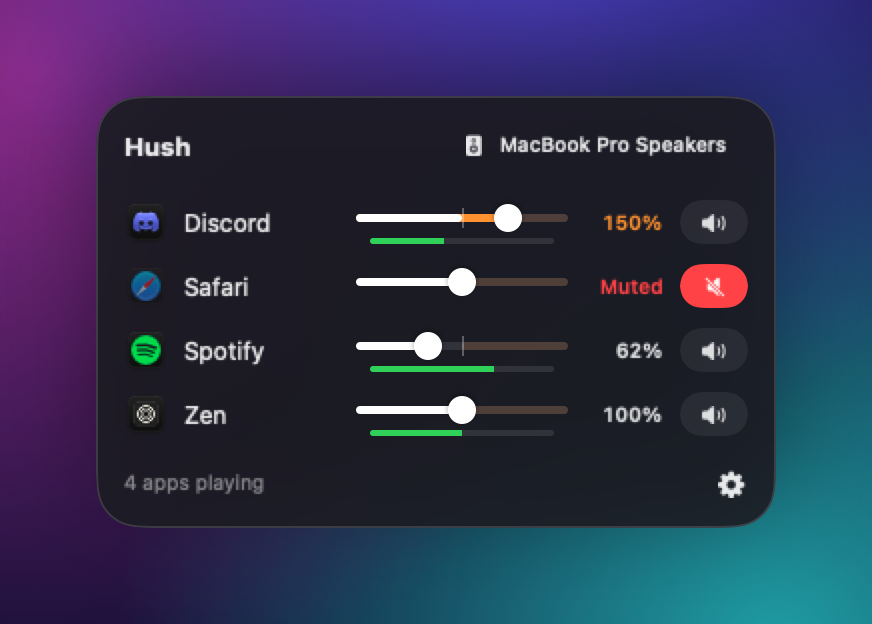
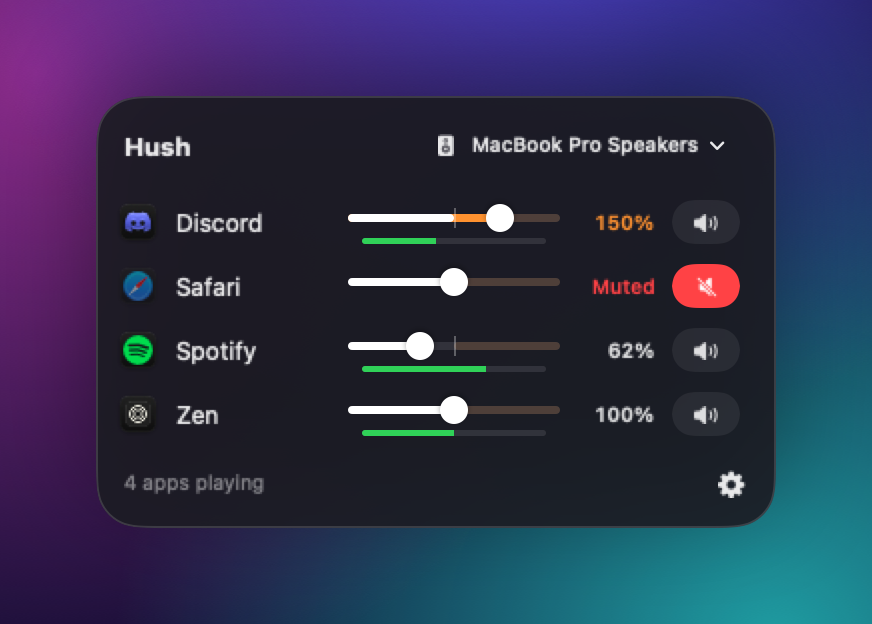
fix(ui): keep the output pill's chevron next to the device name, and refresh screenshots

diff --git a/Sources/HushUI/OutputPicker.swift b/Sources/HushUI/OutputPicker.swift
@@ -55,7 +55,10 @@ struct OutputPill: View {
                 }
                 .lineLimit(1)
                 .truncationMode(.tail)
+                // Hug the name up to the cap: a bare maxWidth frame would stretch to 160pt and
+                // leave a gap before the chevron for shorter names.
                 .frame(maxWidth: Self.maxNameWidth, alignment: .leading)
+                .fixedSize(horizontal: true, vertical: false)
                 Image(systemName: "chevron.down")
                     .font(.system(size: 8, weight: .bold))
                     .accessibilityHidden(true)
